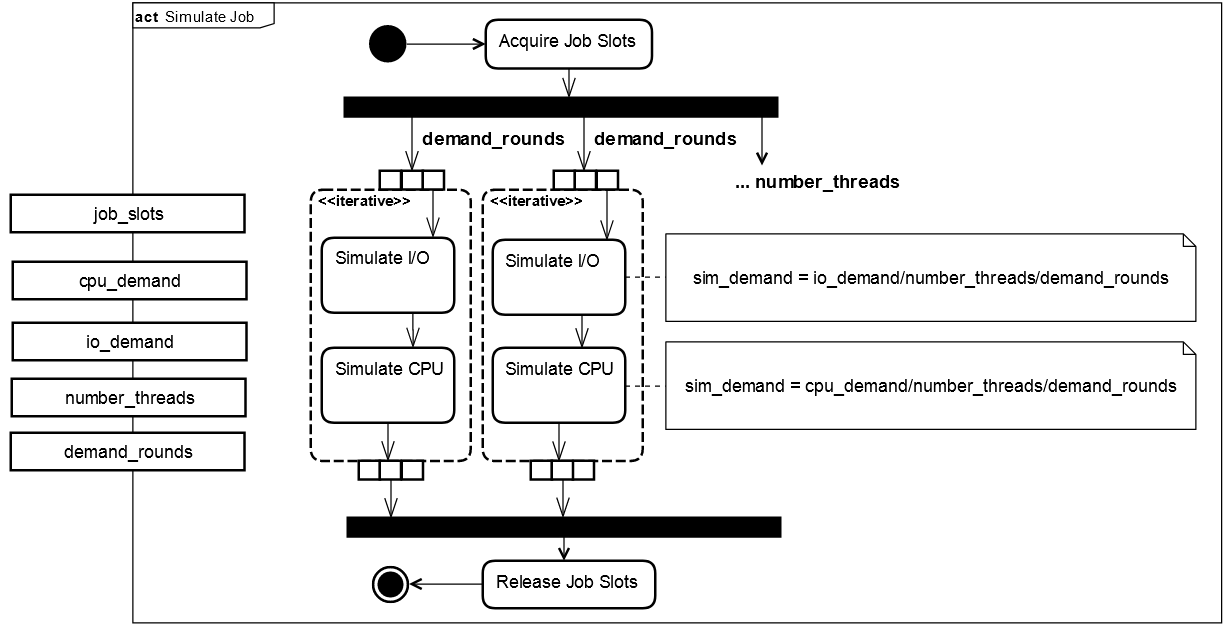
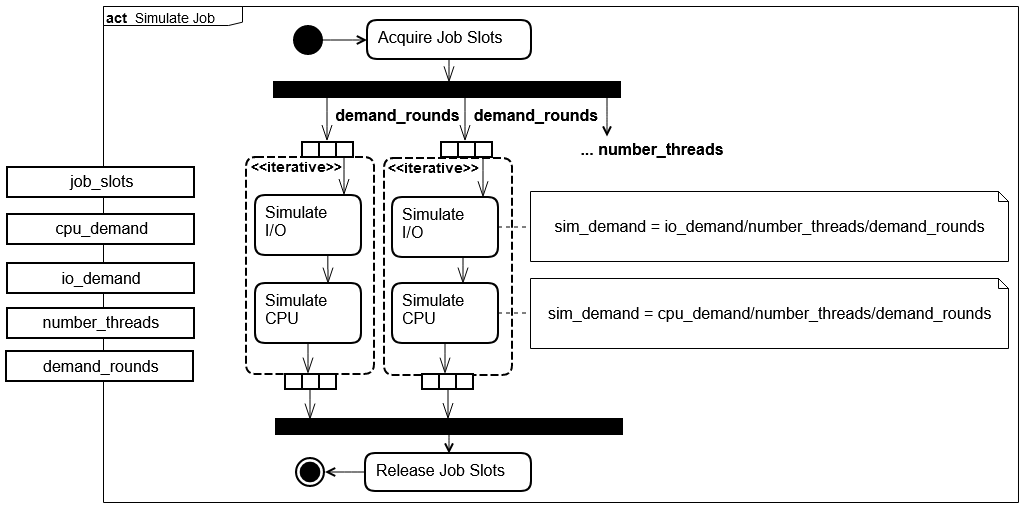
Increase text front of seff

Changed region(s): [[0.0, 0.0, 0.999, 0.8251], [0.0937, 0.8251, 0.999, 1.0], [0.2498, 0.8251, 0.281, 0.8546]]

diff --git a/paper/paper.tex b/paper/paper.tex
@@ -143,7 +143,7 @@ While processing, the job uses the specified number of threads to process the CP
 
 \begin{figure*}
 	\centering
-	\includegraphics[width=0.8\linewidth]{images/seff}
+	\includegraphics[width=0.82\linewidth]{images/seff}
 	\caption[]{Model of Job Behavior}
 	\label{seff}
 \end{figure*}
